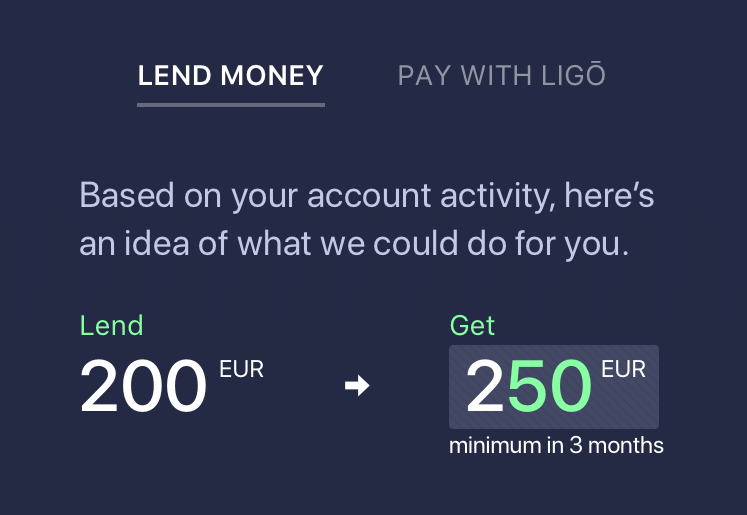
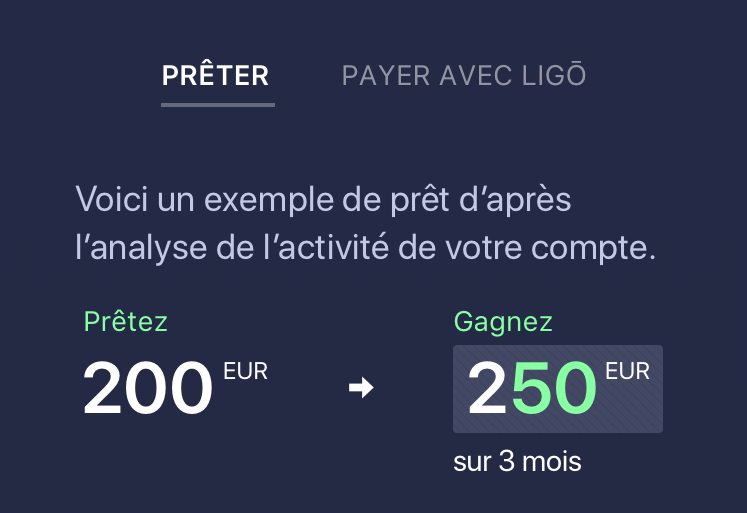
all screens

diff --git a/app/templates/data.html b/app/templates/data.html
@@ -2,10 +2,11 @@
   <body>
     <div class="image">
       <img width="100%" left="50%" src="./assets/img/data_view.png" usemap="#mapname"/>
-      <a class="link" href="./#!/lending" style="top: 5vh;left: 14vh;width: 21vh;height: 7vh;"></a>
-      <a class="link" href="./#!/lending" style="top: 5vh;left: 42vh;width: 23vh;height: 7vh;"></a>
-      <a href="#" class="lend">Lend now</a>
-      <rate-evolution class="trend" ng-if="transactions" ng-model="transactions"></rate-evolution>
+      <a class="link" href="./#!/pay" style="top: 3%;left: 45%;width: 35%;height: 7%;"></a>
+      <a href="./#!/lending1" class="lend">Commencer à prêter</a>
+      <div class="trend" >
+        <rate-evolution ng-if="transactions" ng-model="transactions"></rate-evolution>
+      </div>
     </div>
   </body>
 </html>

diff --git a/app/app.js b/app/app.js
@@ -12,8 +12,16 @@ app.config(['$routeProvider', function ($routeProvider) {
     templateUrl: './app/templates/data.html',
     controller: 'homeController'
   }).
-  when('/lending', {
-    templateUrl: './app/templates/lending.html'
+  when('/lending1', {
+    templateUrl: './app/templates/lending1.html'
+  }).
+  when('/lending2', {
+    templateUrl: './app/templates/lending2.html',
+    controller: 'homeController'
+  }).
+  when('/pay', {
+    templateUrl: './app/templates/pay.html',
+    controller: 'homeController'
   }).
   otherwise({
     redirectTo: '/'

diff --git a/app/templates/lending2.html b/app/templates/lending2.html
@@ -1,0 +1,11 @@
+<html>
+  <body>
+    <div class="image">
+      <img width="100%" src="./assets/img/lending_process2-top.png" />
+      <div class="trend" >
+        <rate-evolution ng-if="transactions" ng-model="transactions"></rate-evolution>
+      </div>
+      <img width="100%" src="./assets/img/lending_process2-btm.png" />
+    </div>
+  </body>
+</html>

diff --git a/app/templates/pay.html b/app/templates/pay.html
@@ -1,0 +1,11 @@
+<html>
+  <body>
+    <div class="image">
+      <img width="100%" src="./assets/img/paiement-top.png" />
+      <div class="trend" >
+        <rate-evolution ng-if="transactions" ng-model="transactions"></rate-evolution>
+      </div>
+      <img width="100%" src="./assets/img/paiement-btm.png" />
+    </div>
+  </body>
+</html>

diff --git a/assets/style.css b/assets/style.css
@@ -26,7 +26,7 @@ a.lend {
   background: #FF7676;
   text-decoration: none;
   line-height: 45px;
-  width: 150px;
+  width: 200px;
   box-sizing: border-box;
   text-align: center;
   margin: auto;
@@ -59,4 +59,5 @@ a.lend {
   margin-left: auto;
   margin-right: auto;
   background-color: #242945;
+  min-height:270px;
 }

diff --git a/app/templates/lending1.html b/app/templates/lending1.html
@@ -2,6 +2,7 @@
   <body>
     <div class="image">
       <img width="100%" src="./assets/img/lending_process.png" />
+      <a class="link" href="./#!/lending2" style="top: 33%;left: 25%;width: 49%;height: 8%;"></a>
     </div>
   </body>
 </html>
